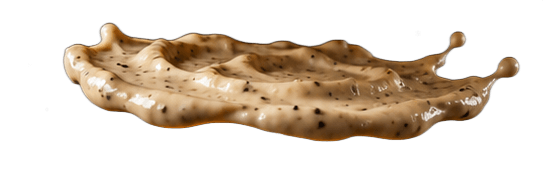
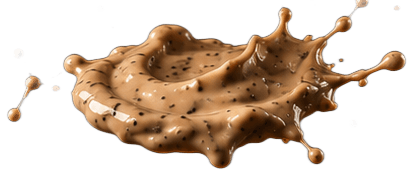
feat: burger components as clean isolated cut-outs from the new exploded render
Replaced the rough composite-crops with proper isolated objects, cocktail-grade:
- New cleaner exploded render (truffle-burger-exploded-v2.png) → cropped each of
  the 5 UNIQUE layers (deduped: bun and truffle aioli each appear twice in the
  render, listed once) → background removed + trimmed → transparent floating PNGs
  (scripts/crop_v2.py + bg_cut_v2.js).
- Each comp-*-cut.png is now a single isolated component on transparency (sesame
  brioche, truffle-aioli splash, sweet-potato straws, lettuce, grilled patty) —
  floats on the page like the cocktail ingredients. Verified each visually.
- Removed obsolete v1 crops/composite and one-off scripts.

No code change (refs already point at comp-*-cut.png). build clean.

diff --git a/scripts/bg_cut_v2.js b/scripts/bg_cut_v2.js
@@ -1,0 +1,20 @@
+// Remove the black background from each cropped component (comp-*-src.png) and
+// trim -> transparent floating PNG. Same working pattern as cut_bg.js (no sharp.extract).
+const fs = require('fs');
+const { removeBackground } = require('@imgly/background-removal-node');
+let sharp = null; try { sharp = require('sharp'); } catch {}
+
+const names = ['bun', 'aioli', 'sweet-potato', 'lettuce', 'patty'];
+
+(async () => {
+  for (const name of names) {
+    const src = `public/Food/comp-${name}-src.png`;
+    if (!fs.existsSync(src)) { console.log(`${name}: missing ${src}`); continue; }
+    const blob = new Blob([fs.readFileSync(src)], { type: 'image/png' });
+    let buf = Buffer.from(await (await removeBackground(blob)).arrayBuffer());
+    if (sharp) { try { buf = await sharp(buf).trim({ threshold: 12 }).png().toBuffer(); } catch {} }
+    fs.writeFileSync(`public/Food/comp-${name}-cut.png`, buf);
+    console.log(`${name}: ${(buf.length / 1024).toFixed(0)}KB`);
+  }
+  console.log('DONE');
+})().catch((e) => { console.log('ERR', e.message); process.exit(1); });

diff --git a/scripts/crop_v2.py b/scripts/crop_v2.py
@@ -1,0 +1,30 @@
+import numpy as np
+from PIL import Image
+
+im = Image.open('public/Food/truffle-burger-exploded-v2.png').convert('RGB')
+a = np.asarray(im)
+H, W, _ = a.shape
+
+FX0, FX1 = 338, 846            # food column (text is on the left)
+PAD = 16
+# 5 unique layers (dedup the repeated bun & aioli): name -> (yTop, yBottom)
+comps = {
+    'bun':          (103, 310),   # #1 brioche top
+    'aioli':        (385, 533),   # #2 truffle aioli splash
+    'sweet-potato': (564, 733),   # #3 sweet-potato straws
+    'lettuce':      (768, 927),   # #4 fresh lettuce
+    'patty':        (971, 1118),  # #5 grilled beef patty
+}
+
+for name, (y0, y1) in comps.items():
+    top, bot = max(0, y0 - PAD), min(H, y1 + PAD)
+    sub = a[top:bot, FX0:FX1, :]
+    val = sub.max(2)
+    ys, xs = np.where(val > 40)               # tighten to the object's bbox
+    if len(xs) == 0:
+        print('EMPTY', name); continue
+    p = 8
+    x0, x1 = max(0, int(xs.min()) - p), min(sub.shape[1], int(xs.max()) + p)
+    yy0, yy1 = max(0, int(ys.min()) - p), min(sub.shape[0], int(ys.max()) + p)
+    Image.fromarray(sub[yy0:yy1, x0:x1, :]).save(f'public/Food/comp-{name}-src.png')
+    print(f'{name}: {x1 - x0}x{yy1 - yy0}')
